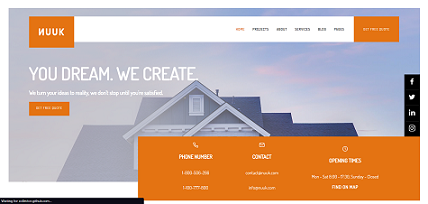
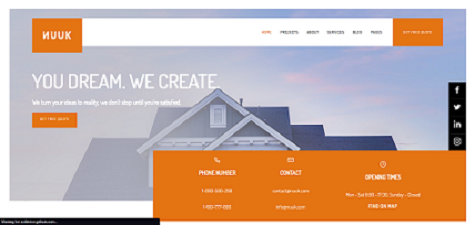
art and scroll

diff --git a/projects.html b/projects.html
@@ -9,9 +9,11 @@
     <link rel="stylesheet" href="https://cdnjs.cloudflare.com/ajax/libs/font-awesome/5.12.0-2/css/all.min.css" integrity="sha256-46r060N2LrChLLb5zowXQ72/iKKNiw/lAmygmHExk/o=" crossorigin="anonymous" />
     <link rel="stylesheet" href="./style.css">
     <link rel="stylesheet" href="./projects.css">
+    <script src="https://ajax.googleapis.com/ajax/libs/jquery/3.6.3/jquery.min.js"></script>
     <title>Akshay Portfolio</title>
 </head>
 <body>
+    <img id="top-arrow" src="./lib/uparrow.png" alt="">
     <nav>
         <div class="logo">
             <img src="./lib/IMG_0973.PNG" alt="">
@@ -41,9 +43,10 @@
         </div>
         <div class="ids">
             <button id="all" class="active">ALL</button>
-            <button id="html">HTML</button>
-            <button id="css">CSS</button>
             <button id="js">JAVASCRIPT</button>
+            <button id="css">CSS</button>
+            <button id="html">HTML</button>
+            <button id="art">ART</button>
         </div>
         <div id="cards">
             <div class="card" id="js">
@@ -99,6 +102,20 @@
                 <img src="./lib/theme.PNG" alt="">
                 <div class="work-info">
                     <h4>Theme Changer</h4>
+                    <a href=""><img src="./lib/link.png" alt=""></a>
+                </div>
+            </div>
+            <div class="card" id="art">
+                <img src="./lib/art1.PNG" alt="">
+                <div class="work-info">
+                    <h4>Portrait 1</h4>
+                    <a href=""><img src="./lib/link.png" alt=""></a>
+                </div>
+            </div>
+            <div class="card" id="art">
+                <img src="./lib/art2.PNG" alt="">
+                <div class="work-info">
+                    <h4>Portrait 2</h4>
                     <a href=""><img src="./lib/link.png" alt=""></a>
                 </div>
             </div>

diff --git a/index.html b/index.html
@@ -9,8 +9,10 @@
     <link rel="stylesheet" href="./style.css">
     <link rel="stylesheet" href="https://cdnjs.cloudflare.com/ajax/libs/font-awesome/5.12.0-2/css/all.min.css" integrity="sha256-46r060N2LrChLLb5zowXQ72/iKKNiw/lAmygmHExk/o=" crossorigin="anonymous" />
     <title>Akshay Portfolio</title>
+    <script src="https://ajax.googleapis.com/ajax/libs/jquery/3.6.3/jquery.min.js"></script>
 </head>
 <body>
+    <img id="top-arrow" src="./lib/uparrow.png" alt="">
     <nav>
         <div class="logo">
             <img src="./lib/IMG_0973.PNG" alt="">
@@ -88,6 +90,13 @@
                 <img src="./lib/Note-app.PNG" alt="">
                 <div class="work-info">
                     <h4>Notes App</h4>
+                    <a href=""><img src="./lib/link.png" alt=""></a>
+                </div>
+            </div>
+            <div class="card" id="art">
+                <img src="./lib/art1.PNG" alt="">
+                <div class="work-info">
+                    <h4>Portrait 1</h4>
                     <a href=""><img src="./lib/link.png" alt=""></a>
                 </div>
             </div>

diff --git a/script.js b/script.js
@@ -23,3 +23,36 @@ function show(){
 function close(){
     mainMenu.style.top = '-100%';
 }
+
+
+
+
+// const upar = document.getElementById('top-arrow')
+// upar.addEventListener('click',()=>{
+//     window.scroll(0,0)
+// })
+// window.addEventListener('scroll',()=>{
+//     if (window.pageXOffset > 100){
+//         upar.style.display='block'
+//     }
+//     else{
+//         upar.style.display='none'
+//     }
+// })
+
+
+
+var btn = $('#top-arrow');
+
+$(window).scroll(function() {
+  if ($(window).scrollTop() > 100) {
+    btn.addClass('show');
+  } else {
+    btn.removeClass('show');
+  }
+});
+
+btn.on('click', function(e) {
+  e.preventDefault();
+  $('html, body').animate({scrollTop:0});
+});

diff --git a/style.css b/style.css
@@ -19,6 +19,26 @@ body{
     background-color: rgb(207, 207, 207);
 }
 
+#top-arrow{
+    /* display: none; */
+    position: fixed;
+    /* top:100px; */
+    bottom: 20px;
+    right: 20px;
+    height: 50px;
+    opacity: 0;
+    cursor: pointer;
+    transition: 0.5s;
+}
+#top-arrow:hover{
+    scale: 1.15;
+}
+#top-arrow.show {
+    opacity: 1;
+    visibility: visible;
+  }
+
+
 /**************
 nav
 **************/

diff --git a/projects.js b/projects.js
@@ -65,3 +65,20 @@ function show(){
 function close(){
     mainMenu.style.top = '-100%';
 }
+
+
+
+var btn = $('#top-arrow');
+
+$(window).scroll(function() {
+  if ($(window).scrollTop() > 100) {
+    btn.addClass('show');
+  } else {
+    btn.removeClass('show');
+  }
+});
+
+btn.on('click', function(e) {
+  e.preventDefault();
+  $('html, body').animate({scrollTop:0});
+});
